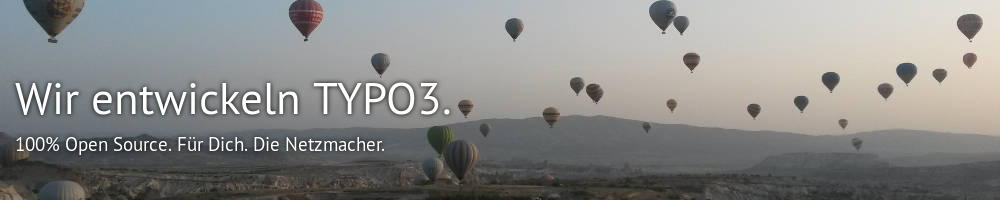
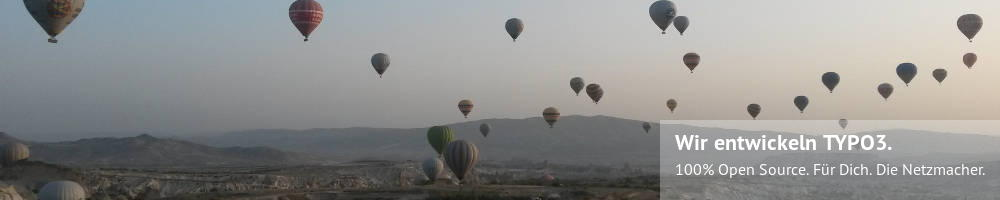
4.6.0

Changed region(s): [[0.651, 0.6, 1.0, 1.0], [0.0, 0.39, 0.465, 0.6], [0.0, 0.66, 0.403, 0.78]]

diff --git a/Documentation/Users/Slickcontentelement/Layouts/Index.rst b/Documentation/Users/Slickcontentelement/Layouts/Index.rst
@@ -44,13 +44,13 @@ Layout 1
 
 Properties:
 
-* Content box 
+Same as Layout 1 but
 
-	* is placed on the bottom
+* Content box
 
-	* has full width
+	* width is set to auto
 
-	* has a transparent white background
+	* alignment is left
 
 
 Layout 2
@@ -64,11 +64,13 @@ Layout 2
 
 Properties:
 
-* Content box 
+Same as Layout 1 but
 
-	* is placed on the bottom
+* Content box
 
-	* has full width
+	* width is set to auto
+
+	* alignment is reight
 
 	* has a transparent white background
 
@@ -88,6 +90,12 @@ Properties:
 
 	* is placed on the bottom
 
-	* has full width
+	* header and text has a shadow
 
-	* has a transparent white background
+
+Controlling
+-----------
+
+* Height of the content box is controlled by the Flexform / Plugin > field: height
+
+* Layout is controlled by the Flexform / Plugin > field: layout

diff --git a/Documentation/Index/Index.rst b/Documentation/Index/Index.rst
@@ -18,7 +18,11 @@ Alphabetical Index
 C
 -
 
-* :ref:`Content Elements <users_slick_content>`
+* Content
+
+  * :ref:`Slider for Content Elements <users_slick_content>`
+
+  * :ref:`Slick Content Element <users_slickcontentelement>`
 
 
 D
@@ -60,6 +64,14 @@ I
 * :ref:`Images <users_slick_images>`
 
 
+L
+-
+
+* Layouts
+
+  * :ref:`Slick Content Element <users_slickcontentelement_layouts>`
+
+
 O
 -
 
@@ -85,7 +97,14 @@ S
 
 * :ref:`Screenshots <introduction-screenshots>`
 
+* Slick
+
+  * :ref:`Content Element <users_slickcontentelement>`
+
+  * :ref:`Slider for Content Elements <users_slick_content>`
+
 * :ref:`Sorting <users_bestpractice_randomized>`
+
 
 Syncing
 '''''''

diff --git a/Documentation/WhatsNew/Index.rst b/Documentation/WhatsNew/Index.rst
@@ -39,7 +39,11 @@ New features:
 
 * Croping of an image will respected.
 
-* Height of content area is configureable by the flexfrom / plugin.
+* Height of content area is configureable by the flexform / plugin.
+
+* One of four layouts can selected by the flexform / plugin.
+
+See @ :ref:`Users > Slick Content Element > Layouts <users_slickcontentelement_layouts>`
 
 
 **What was new:**
